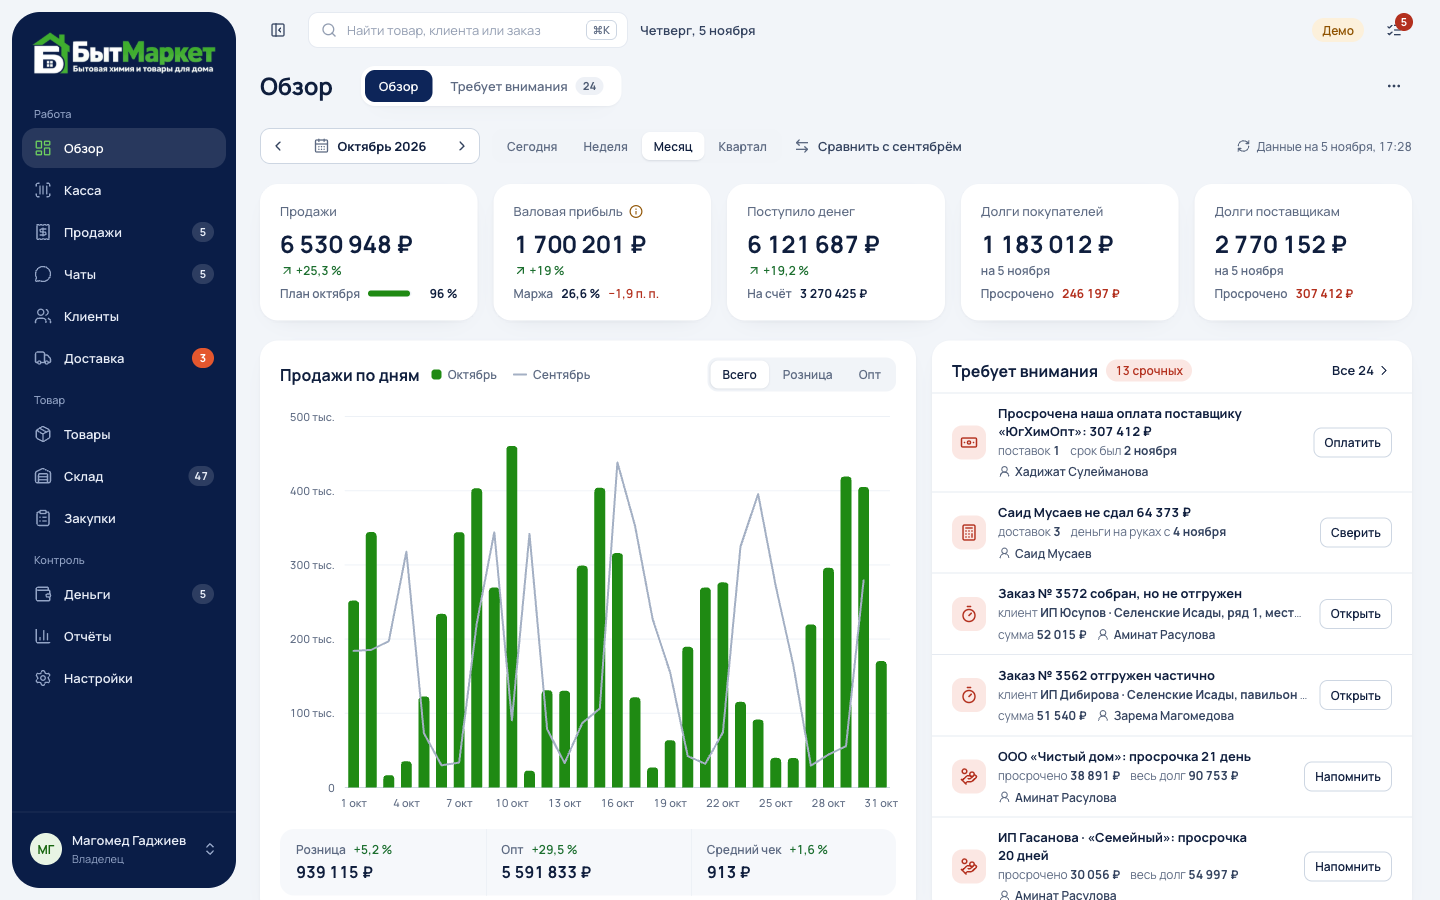
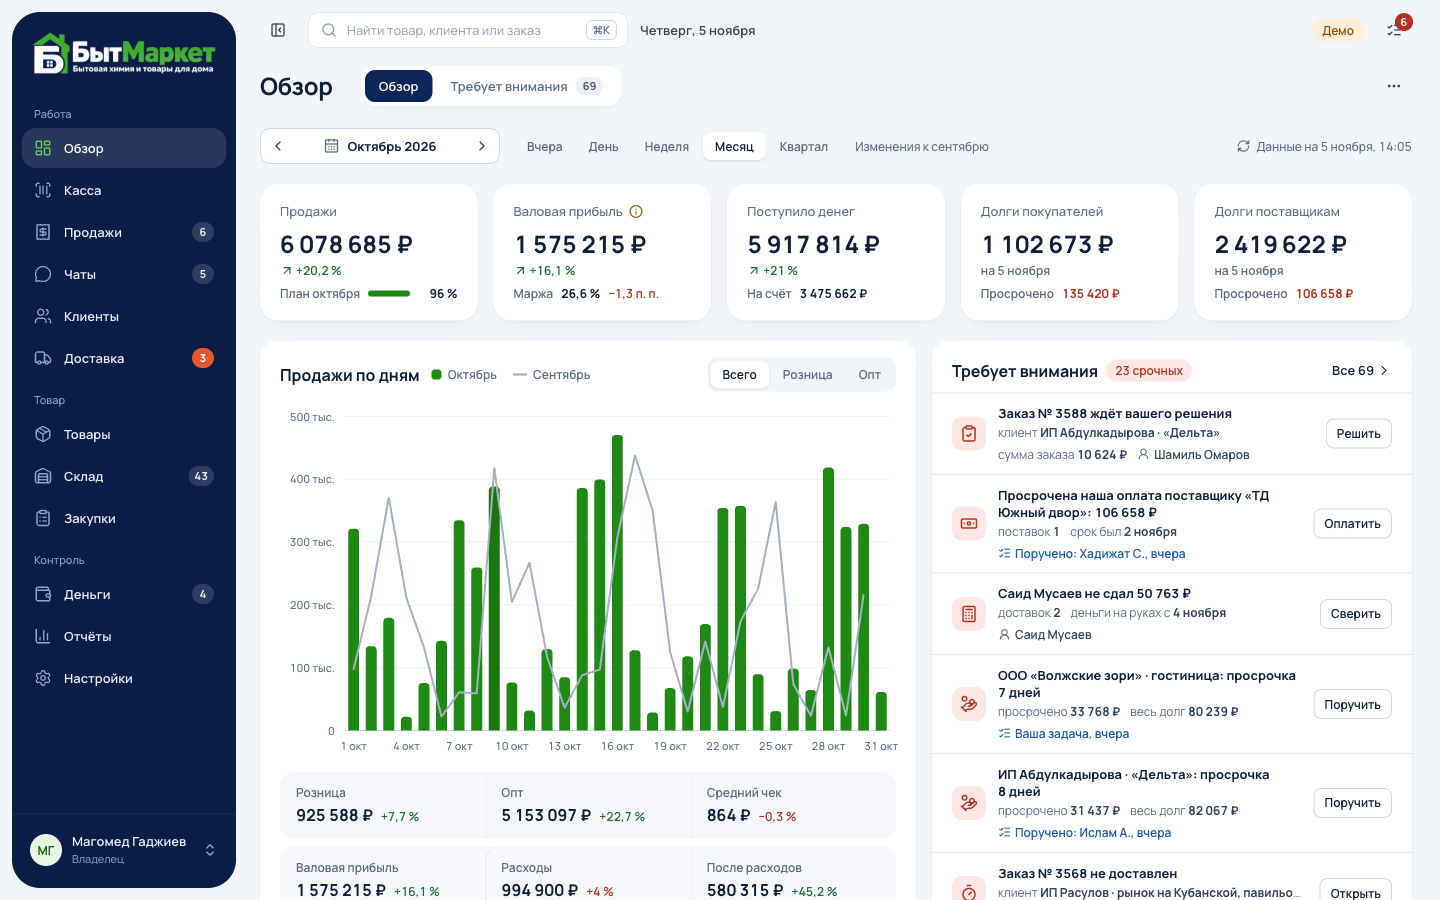
Повторный проход путей: правки данных и мелочи, снимки и описание
- Поиск: русское название бренда учитывается в точности совпадения.
- Новый заказ: Enter выбирает первого найденного клиента.
- Данные: заявка на согласование только с товаром в наличии, свежие доставки
  без курьера — на вечерних интервалах, плательщик неопознанного платежа — клиент
  с настоящим долгом, напоминания об оплате в истории чатов.
- Причина расхождения при закрытии смены, номер чека возврата везде.
- Пожелание клиента у доставки — отдельным полем; повтор после неудачи так и называется;
  задача «владелец вернул заказ» закрывается сама.
- Описание демо: путь каждого сотрудника и что упрощено. Снимки пересняты.

diff --git a/web/src/data/generate/extras.ts b/web/src/data/generate/extras.ts
@@ -332,6 +332,26 @@ interface TaskDraft {
 
 export function buildTasks(db: DB, rng: Rng, meta: ProdMeta[]): void {
   const today = db.meta.today;
+  // плательщик в выписке у неопознанных поступлений — клиент, у которого на эту сумму есть неоплаченный долг
+  // (без переводов на проверке): бухгалтер находит его по ИНН, и деньги гасят долг, а не уходят в аванс
+  {
+    const usedPayer = new Set<ID>();
+    for (const pay of db.payments.filter((x) => x.status === 'unidentified')) {
+      const cands = db.clients
+        .filter((c) => c.active && c.inn && c.segment !== 'retail' && !usedPayer.has(c.id))
+        .map((c) => {
+          const b = clientBalance(db, c.id);
+          const exact = db.orders.some((o) => o.clientId === c.id && Math.abs(orderPayment(db, o).due - orderPayment(db, o).pending - pay.amount) < 1);
+          return { c, free: b.debt - b.pending, exact };
+        })
+        .filter((x) => x.free >= pay.amount && x.c.ownerId)
+        .sort((a, b2) => Number(b2.exact) - Number(a.exact) || a.free - b2.free);
+      const pick = cands[0];
+      if (!pick) continue;
+      usedPayer.add(pick.c.id);
+      pay.payer = { name: pick.c.name.split(' · ')[0], inn: pick.c.inn! };
+    }
+  }
   const yesterday = plusDays(today, -1);
   const si = stockIndex(db);
   const clients = db.clients;
@@ -397,7 +417,7 @@ export function buildTasks(db: DB, rng: Rng, meta: ProdMeta[]): void {
         const r = applyOp(
           db,
           'order.create',
-          { clientId: d.c.id, pointId: last.pointId, lines: last.lines.slice(0, 3).map((l) => ({ productId: l.productId, pack: l.pack, packQty: l.packQty })), state: 'request', source: 'rep', fulfillment: last.fulfillment, comment: 'Заявка из визита' },
+          { clientId: d.c.id, pointId: last.pointId, lines: last.lines.filter((l) => (si.get(l.productId)?.warehouse.available ?? 0) >= l.qty * 2).slice(0, 3).map((l) => ({ productId: l.productId, pack: l.pack, packQty: l.packQty })), state: 'request', source: 'rep', fulfillment: last.fulfillment, comment: 'Заявка из визита' },
           { actorId: d.c.ownerId!, at: (() => { const lastAt = db.orders.reduce((m, o) => (o.createdAt > m ? o.createdAt : m), ''); const lm = lastAt.startsWith(today) ? +lastAt.slice(11, 13) * 60 + +lastAt.slice(14, 16) : 11 * 60; return atTime(today, Math.min(13 * 60 + 40, lm + 3)); })() },
         );
         ask = r.id ? get(db, 'orders', r.id) : undefined;

diff --git a/web/src/data/search.ts b/web/src/data/search.ts
@@ -117,12 +117,15 @@ export function scoreProduct(h: ProductHay, tokens: string[]): number | null {
     }
   }
   let score = 0;
-  const covered = h.head.filter((hw) => tokens.some((t) => wordMatch(t, hw))).length;
+  // бренд, названный по-русски («фейри»), закрывает слово бренда в коротком названии так же, как «fairy»
+  const brandWords = normTokens(h.brand);
+  const aliases = BRAND_ALIASES[h.brand] ?? [];
+  const aliasHit = tokens.some((t) => aliases.some((a) => a.startsWith(t) && t.length >= 2));
+  const covered = h.head.filter((hw) => tokens.some((t) => wordMatch(t, hw)) || (aliasHit && brandWords.includes(hw))).length;
   score += (covered / h.head.length) * 6; // насколько полно названо короткое название
   if (covered === h.head.length) score += 3; // названо целиком
-  if (wordMatch(tokens[0], h.first)) score += 2;
-  const brandWords = normTokens(h.brand);
-  if (brandWords.some((b) => wordMatch(tokens[0], b)) || (BRAND_ALIASES[h.brand] ?? []).some((a) => a.startsWith(tokens[0]))) score += 2;
+  if (wordMatch(tokens[0], h.first) || (aliasHit && brandWords.includes(h.first))) score += 2;
+  if (brandWords.some((b) => wordMatch(tokens[0], b)) || aliases.some((a) => a.startsWith(tokens[0]))) score += 2;
   return score;
 }
 

diff --git a/web/src/sections/sales/NewOrderDrawer.tsx b/web/src/sections/sales/NewOrderDrawer.tsx
@@ -860,7 +860,20 @@ function ClientPicker({ clients, onPick }: { clients: Client[]; onPick: (c: Clie
   return (
     <div className="col-3">
       <div className="t-16 w-700">Для кого заказ</div>
-      <SearchInput value={q} onChange={setQ} placeholder="Название, телефон, ИНН или адрес точки" autoFocus size="lg" />
+      <SearchInput
+        value={q}
+        onChange={setQ}
+        placeholder="Название, телефон, ИНН или адрес точки"
+        autoFocus
+        size="lg"
+        onKeyDown={(e) => {
+          // Enter — первый найденный клиент: с клавиатуры без мыши
+          if (e.key === 'Enter' && q.trim() && list.length) {
+            e.preventDefault();
+            onPick(list[0].c);
+          }
+        }}
+      />
       <div className="card sales-picker">
         {list.length || foreign.length ? (
           [

diff --git a/web/src/data/generate/sim.ts b/web/src/data/generate/sim.ts
@@ -713,7 +713,11 @@ export function simulate(input: SimInput): SimStats {
     if (d === TODAY) {
       todays.sort((a, b) => a.number - b.number);
       const nWait = 2 + (todays.length > 17 ? 1 : 0);
-      todays.splice(Math.max(0, todays.length - nWait), nWait); // самые свежие — ждут назначения
+      // самые свежие — ждут назначения; клиенты, заказавшие сегодня, ждут вечером, а не утром
+      const waitingNow = todays.splice(Math.max(0, todays.length - nWait), nWait);
+      waitingNow.forEach((dl, i) => {
+        if (minutesOf(dl.interval.slice(-5)) < 17 * 60) dl.interval = ['15:00–18:00', '16:00–19:00', '14:00–17:00'][i % 3];
+      });
       // лишние — на завтра
       while (todays.length > 15) {
         const x = todays.pop()!;

diff --git a/web/src/data/store.ts b/web/src/data/store.ts
@@ -11,7 +11,7 @@ export type OpType = keyof typeof ops;
 
 const STORAGE_KEY = 'bytmarket-demo-v2-ops';
 /** Версия исходных данных. Менять при любой правке генератора: старый журнал тогда отбрасывается, а не применяется к другим товарам. */
-export const DATA_VERSION = 'g9';
+export const DATA_VERSION = 'g12';
 const MIN_MINUTES = 14 * 60 + 5; // сгенерированные события идут до 14:00
 const MAX_MINUTES = 20 * 60 + 55;
 

diff --git a/docs/12-demo-v2.md b/docs/12-demo-v2.md
@@ -59,12 +59,24 @@
 - **Карточка клиента** — ссылка «Написать в WhatsApp» или «Переписка в WhatsApp».
 - **Настройки → Подключения → WhatsApp**: номер магазина, цифры переписки, переключатели автосообщений (меняет владелец, изменения пишутся в журнал) и пример того, что видит клиент.
 
+## Путь каждого сотрудника (проверено от начала до конца рабочего дня)
+Четыре проверяющих прошли полный рабочий день всех восьми ролей с настоящими действиями и нашли около 120 неудобств; исправлены все, кроме отмеченных ниже. После исправлений пути пройдены ещё раз.
+- **Продавец:** продажа с клавиатуры (скан → F9 → F9), сканер не «залипает» после ошибки, коробка — или «продать поштучно», «Попросить склад перенести», понятный конец смены с итогом, «сдать / оставить на размен» и причиной расхождения.
+- **Склад:** «Принять поставку» по закупке («Всё сходится», коробками, сканер), сборка не теряет отметки, выдача самовывоза с оплатой и долгом, брак — «Вернуть поставщику», крупная недостача при пересчёте — с причиной.
+- **Менеджер:** одно правило «чьи клиенты» везде, чипы проблем у заявок, согласование с владельцем и «Вернуть менеджеру» с причиной, причина отмены, этап заказа в карточках, Enter выбирает клиента.
+- **Представитель (телефон):** «Начать визит» → «Оформить заявку» одной кнопкой, визит закрывается сам; «Нет связи» честно: «сохранена в телефоне», чип «Не отправлена»; одна цена для опта и «можно заказать».
+- **Диспетчер:** интервал при назначении, одно окно повтора с причиной и пожеланием клиента, действия для доставок «в пути», приём денег с пересчётом и недостачей, «с прошлых дней».
+- **Курьер (телефон):** «Перевод — ждёт банка», «часть товара не взяли» с возвратом, «Задерживаюсь», «Не удалось» с днём, который просит клиент, пункт «Деньги» внизу, короткие сообщения.
+- **Владелец:** честные счётчики «Требует внимания» и «Разобрано сегодня», «Ждёт вашего решения» первым, кнопки ведут к самому действию, «Поручить» и «Поручил я», прибыль после расходов, период сохраняется при переходе.
+- **Бухгалтер:** задачи на рабочем столе, плательщик и ИНН из выписки с подсказкой клиента, отметка «Напомнили», расход задним числом, акт сверки с поставщиком.
+- **Для всех:** часы демо начинаются в 14:05 с момента открытия; сообщения сверху и не закрывают кнопки; поиск понимает «фейри», «доместос», объём в любой записи; задачи закрываются сами, когда дело сделано; на телефоне кнопки и вкладки не меньше 44 px.
+
 ## Роли (показ, не защита)
 | Роль | Видит |
 |---|---|
 | Владелец | всё |
 | Продавец | касса, свои чеки, каталог без закупочных цен |
-| Менеджер | свои клиенты, их заказы, долги и доставки; заявки представителей на подтверждение; принимает оплату |
+| Менеджер | свои клиенты и клиенты представителей: заказы, долги, доставки; заявки представителей на подтверждение; принимает оплату. Клиенты другого менеджера не видны |
 | Представитель | телефон: «Мой день», свои точки, свои заявки, каталог с оптовой ценой и доступным |
 | Бухгалтер | деньги, долги покупателей и поставщикам, закупки (просмотр), отчёты с прибылью |
 | Склад | остатки, документы, сборка, карантин, приёмка; без закупочных цен |
@@ -83,6 +95,9 @@
 - WhatsApp показан как подключённый, но сообщения не уходят наружу и новые сообщения клиентов не приходят — переписка заранее создана генератором.
 - Частичная отгрузка оформляется только складом. Самовывоз выдаётся целиком.
 - Возврат на склад после неудачной доставки отменяет заказ.
-- Работа без интернета у представителя показана переключателем «Нет связи», а не настоящей очередью.
+- Работа без интернета у представителя показана переключателем «Нет связи»: заявки копятся в телефоне и помечены «Не отправлена», но настоящей отправки при появлении связи нет.
+- Частичной сборки с недостачей нет: если товара не нашлось, сборщик сообщает менеджеру.
+- План продаж сотрудникам задан в данных; поменять его из интерфейса нельзя.
+- «Без заказа» у визита сохраняется как отказ с причиной «Есть запас».
 - Фото товаров нет.
 - Импорт из таблицы есть только для товаров. Остатки и долги показаны цифрами, а не загрузкой.
